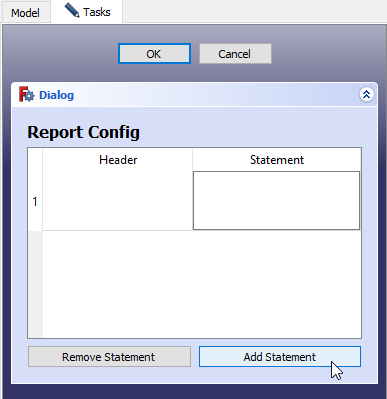
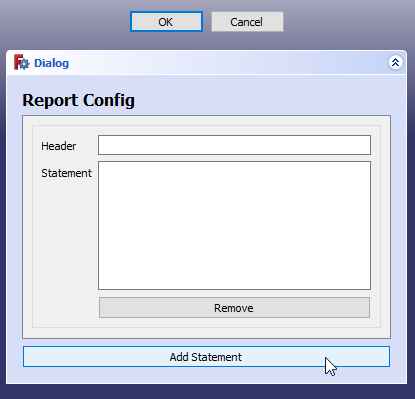
Optimize report config gui
The table is completely removed. Instead of it each statement will be
displayed in its own GroupBox. This makes it more user friendly and will
alow more controls to be added in the future.

fixes #2

diff --git a/report.py b/report.py
@@ -7,7 +7,12 @@ from pivy import coin
 from report_utils.resource_utils import uiPath
 from sql import freecad_sql_parser
 
-from PySide2.QtWidgets import QTableWidgetItem, QTextEdit
+from PySide2.QtWidgets import QTableWidgetItem
+from PySide2.QtWidgets import QTextEdit
+from PySide2.QtWidgets import QGroupBox
+from PySide2.QtWidgets import QLineEdit
+from PySide2.QtWidgets import QFormLayout
+from PySide2.QtWidgets import QPushButton
 
 SQL_PARSER = freecad_sql_parser.newParser()
 
@@ -117,64 +122,78 @@ class ReportSpreadsheet(object):
         self.spreadsheet.recompute()
 
 
-class ReportConfigTable():
-    def __init__(self, report, qtTable):
-        self.report = report
-        self.qtTable = qtTable
+class ReportEntryWidget(QGroupBox):
+    def __init__(self, header, statement, panel, index):
+        super().__init__()
 
-        self.setupTable()
+        self.panel = panel
+        self.index = index
 
-    def setupTable(self):
-        for statement in self.report.statements:
-            self.addRow(statement.header, statement.plainTextStatement)
+        self.headerEdit = QLineEdit(header)
+        self.statementEdit = QTextEdit(statement)
+        self.removeButton = QPushButton('Remove')
 
-    def addRow(self, header=None, statement=None):
-        rowPosition = self.qtTable.rowCount()
-        self.qtTable.insertRow(rowPosition)
+        self.removeButton.clicked.connect(self.remove)
 
-        headerEdit = QTableWidgetItem(header)
-        statementEdit = QTextEdit(statement)
+        self.initUi()
 
-        self.qtTable.setItem(rowPosition, 0, headerEdit)
-        self.qtTable.setCellWidget(rowPosition, 1, statementEdit)
+    def initUi(self):
+        self.layout = QFormLayout()
 
-    def removeRow(self):
-        selectionModel = self.qtTable.selectionModel()
+        self.layout.addRow('Header', self.headerEdit)
+        self.layout.addRow('Statement', self.statementEdit)
+        self.layout.addRow(' ', self.removeButton)
 
-        if selectionModel.hasSelection():
-            for selection in selectionModel.selectedRows():
-                self.qtTable.removeRow(selection.row())
+        self.setLayout(self.layout)
 
-    def saveIntoConfig(self):
-        self.report.statements.clear()
+    def getHeader(self):
+        return self.headerEdit.text()
 
-        for row in range(self.qtTable.rowCount()):
-            headerEdit = self.qtTable.item(row, 0)
-            statementEdit = self.qtTable.cellWidget(row, 1)
+    def getStatement(self):
+        return self.statementEdit.toPlainText()
 
-            reportStatement = ReportStatement(
-                headerEdit.text(), statementEdit.toPlainText())
+    def remove(self):
+        print(self.panel)
+        print(self.panel.entries)
 
-            self.report.statements.append(reportStatement)
+        self.panel.removeRow(self)
 
 
 class ReportConfigPanel():
     def __init__(self, report, freecadObject):
         self.report = report
         self.freecadObject = freecadObject
+        self.entries = []
 
         self.form = FreeCADGui.PySideUic.loadUi(uiPath('report_config.ui'))
 
         self.form.Title.setText('%s Config' % (freecadObject.Label))
-        self.reportConfigTable = ReportConfigTable(
-            self.report, self.form.ReportTable)
+        self.scrollAreaWidget = self.form.ScrollArea.widget()
+
         self.form.AddStatementButton.clicked.connect(
-            self.reportConfigTable.addRow)
-        self.form.RemoveStatementButton.clicked.connect(
-            self.reportConfigTable.removeRow)
+            self.addRow)
+
+        self.setupRows()
+
+    def setupRows(self):
+        for statement in self.report.statements:
+            self.addRow(statement.header, statement.plainTextStatement)
+
+    def addRow(self, header=None, statement=None):
+        widget = ReportEntryWidget(header, statement, self, len(self.entries))
+
+        self.entries.append(widget)
+
+        self.scrollAreaWidget.layout().addWidget(widget)
+
+    def removeRow(self, widget):
+        self.entries.pop(widget.index)
+        layoutItem = self.scrollAreaWidget.layout().takeAt(widget.index)
+
+        layoutItem.widget().deleteLater()
 
     def accept(self):
-        self.reportConfigTable.saveIntoConfig()
+        self.saveIntoConfig()
 
         FreeCADGui.Control.closeDialog()
 
@@ -182,6 +201,15 @@ class ReportConfigPanel():
 
     def reject(self):
         FreeCADGui.Control.closeDialog()
+
+    def saveIntoConfig(self):
+        self.report.statements.clear()
+
+        for entry in self.entries:
+            reportStatement = ReportStatement(
+                entry.getHeader(), entry.getStatement())
+
+            self.report.statements.append(reportStatement)
 
 
 class ReportStatement(object):
